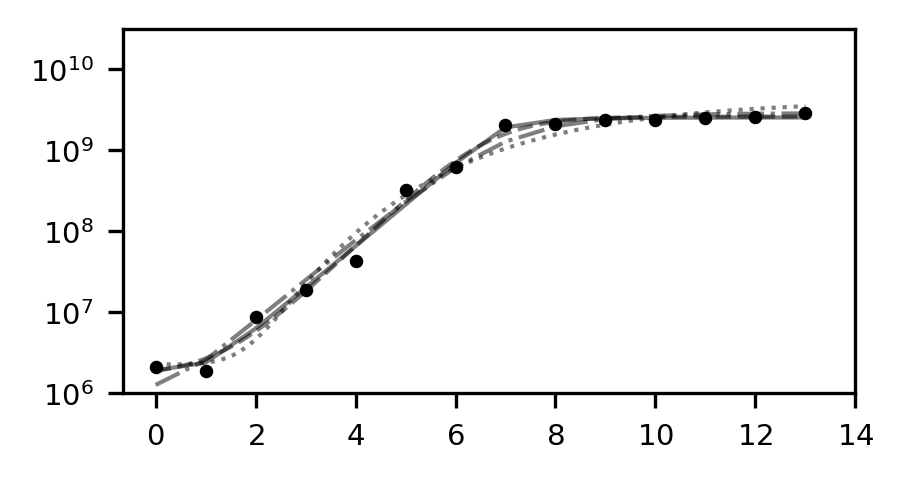
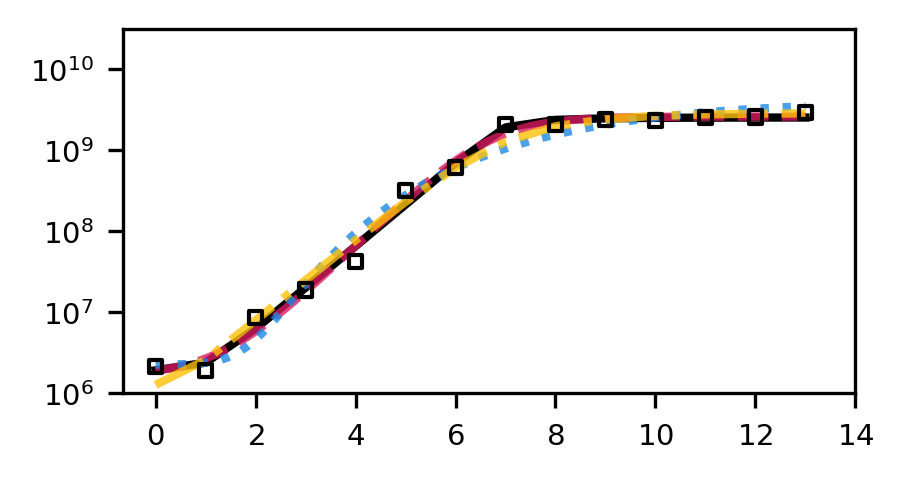
Made fig3 better colors

Changed region(s): [[0.1549, 0.2188, 0.8982, 0.8125]]

diff --git a/Simulations/Fig3_Comparisons/Script.py b/Simulations/Fig3_Comparisons/Script.py
@@ -152,17 +152,18 @@ for i in DATA:
     height = 40/25.4#30/25.4
     fig, ax1 = plt.subplots(figsize=(width,height))
 
-    s = 5
+    s = 10
     ax1.semilogy(Fitted_Mono_Closed.t,Fitted_Mono_Closed.y[0],
-            linewidth = 1,label='Activity',color='k',alpha=0.5)
+            linewidth = 2,label='Activity',color='k',alpha=1)
     ax1.semilogy(t,Models.Logistic(t,Sr_L,SK_L,SIC_L,t0_L),
-            linewidth=1,linestyle='dashed',color='k',alpha=0.5)
+            linewidth=2,linestyle='dashed',color='#D81B60',alpha=0.8)
     ax1.semilogy(t,Models.Gompertz(t,Sr_G,SK_G,SIC_G,t0_G),
-            linewidth=1,linestyle='dotted',color='k',alpha=0.5)
+            linewidth=2,linestyle='dotted',color='#1E88E5',alpha=0.8)
     ax1.semilogy(Fitted_Kinetic.t,Fitted_Kinetic.y[0],
-            linewidth=1,linestyle='-.',color='k',alpha=0.5)
+            linewidth=2,linestyle='-.',color='#FFC107',alpha=0.8)
+
     ax1.scatter(np.arange(len(data)),data,
-            s=s,color='k',zorder=10)
+            s=s,marker='s',color='none',edgecolors='k',zorder=10)
 
     ax1.set_yticks([1e6, 1e7, 1e8, 1e9, 1e10])
     ax1.set_yticklabels([r'$10^6$', r'$10^7$', r'$10^8$', r'$10^9$', r'$10^{10}$'])
